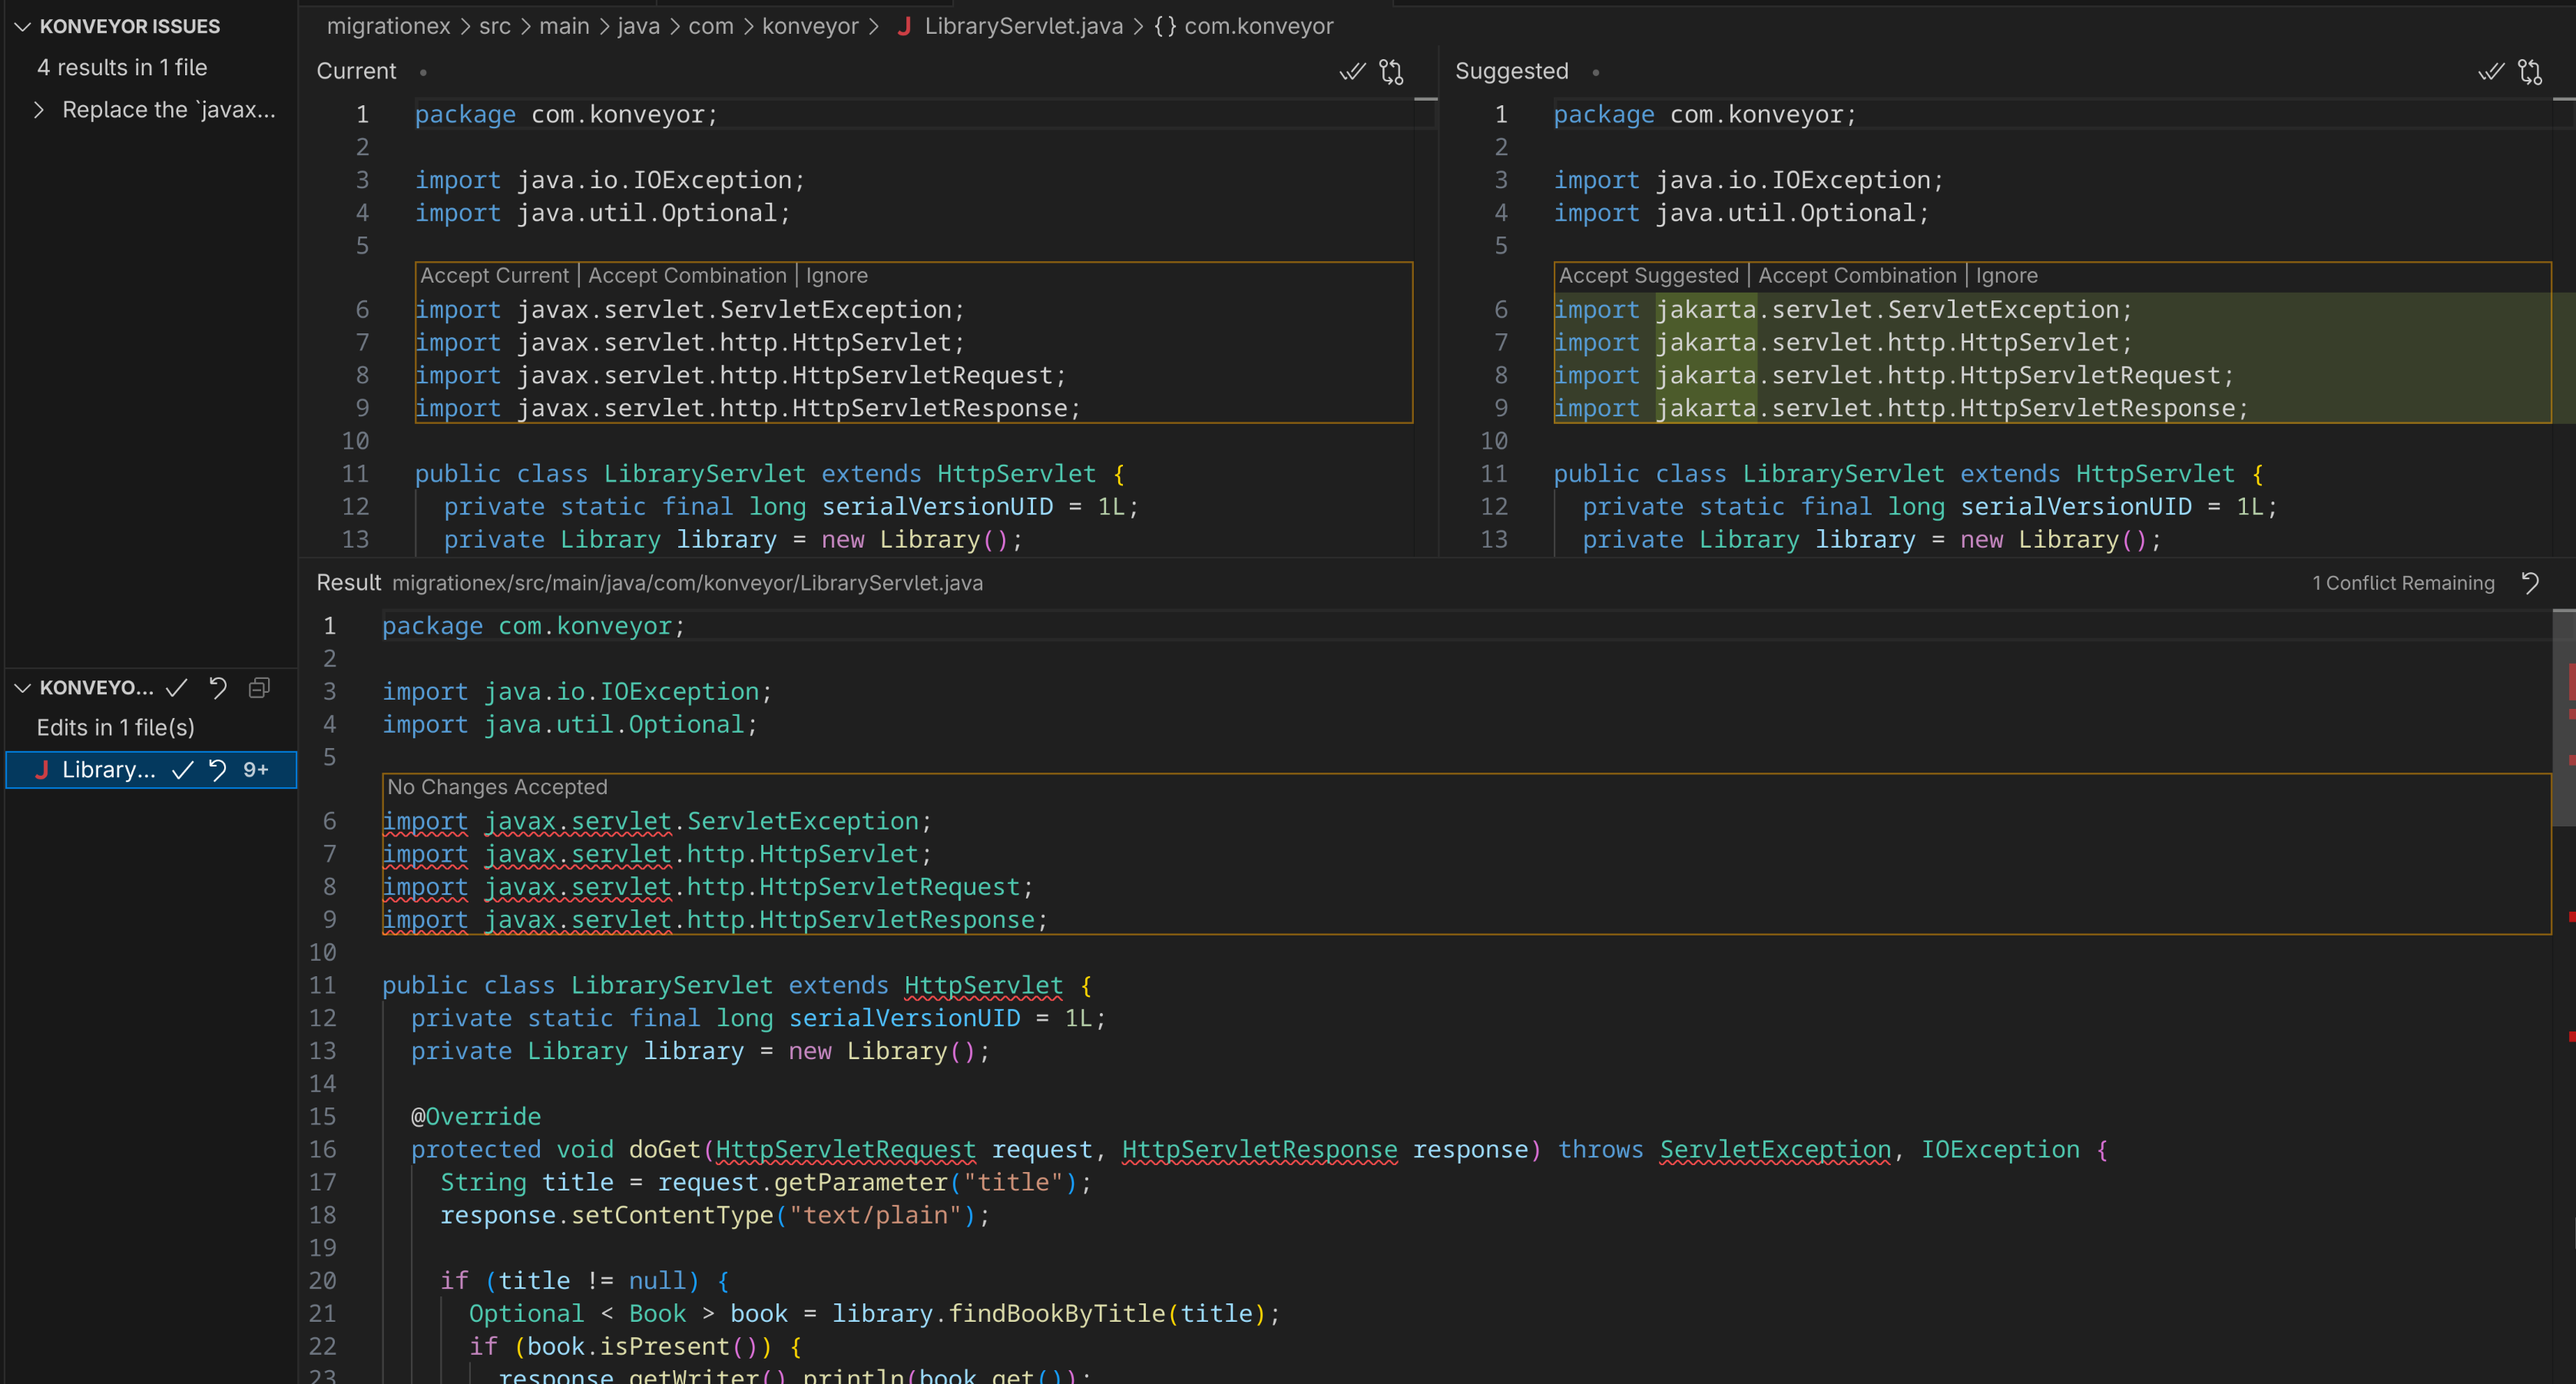
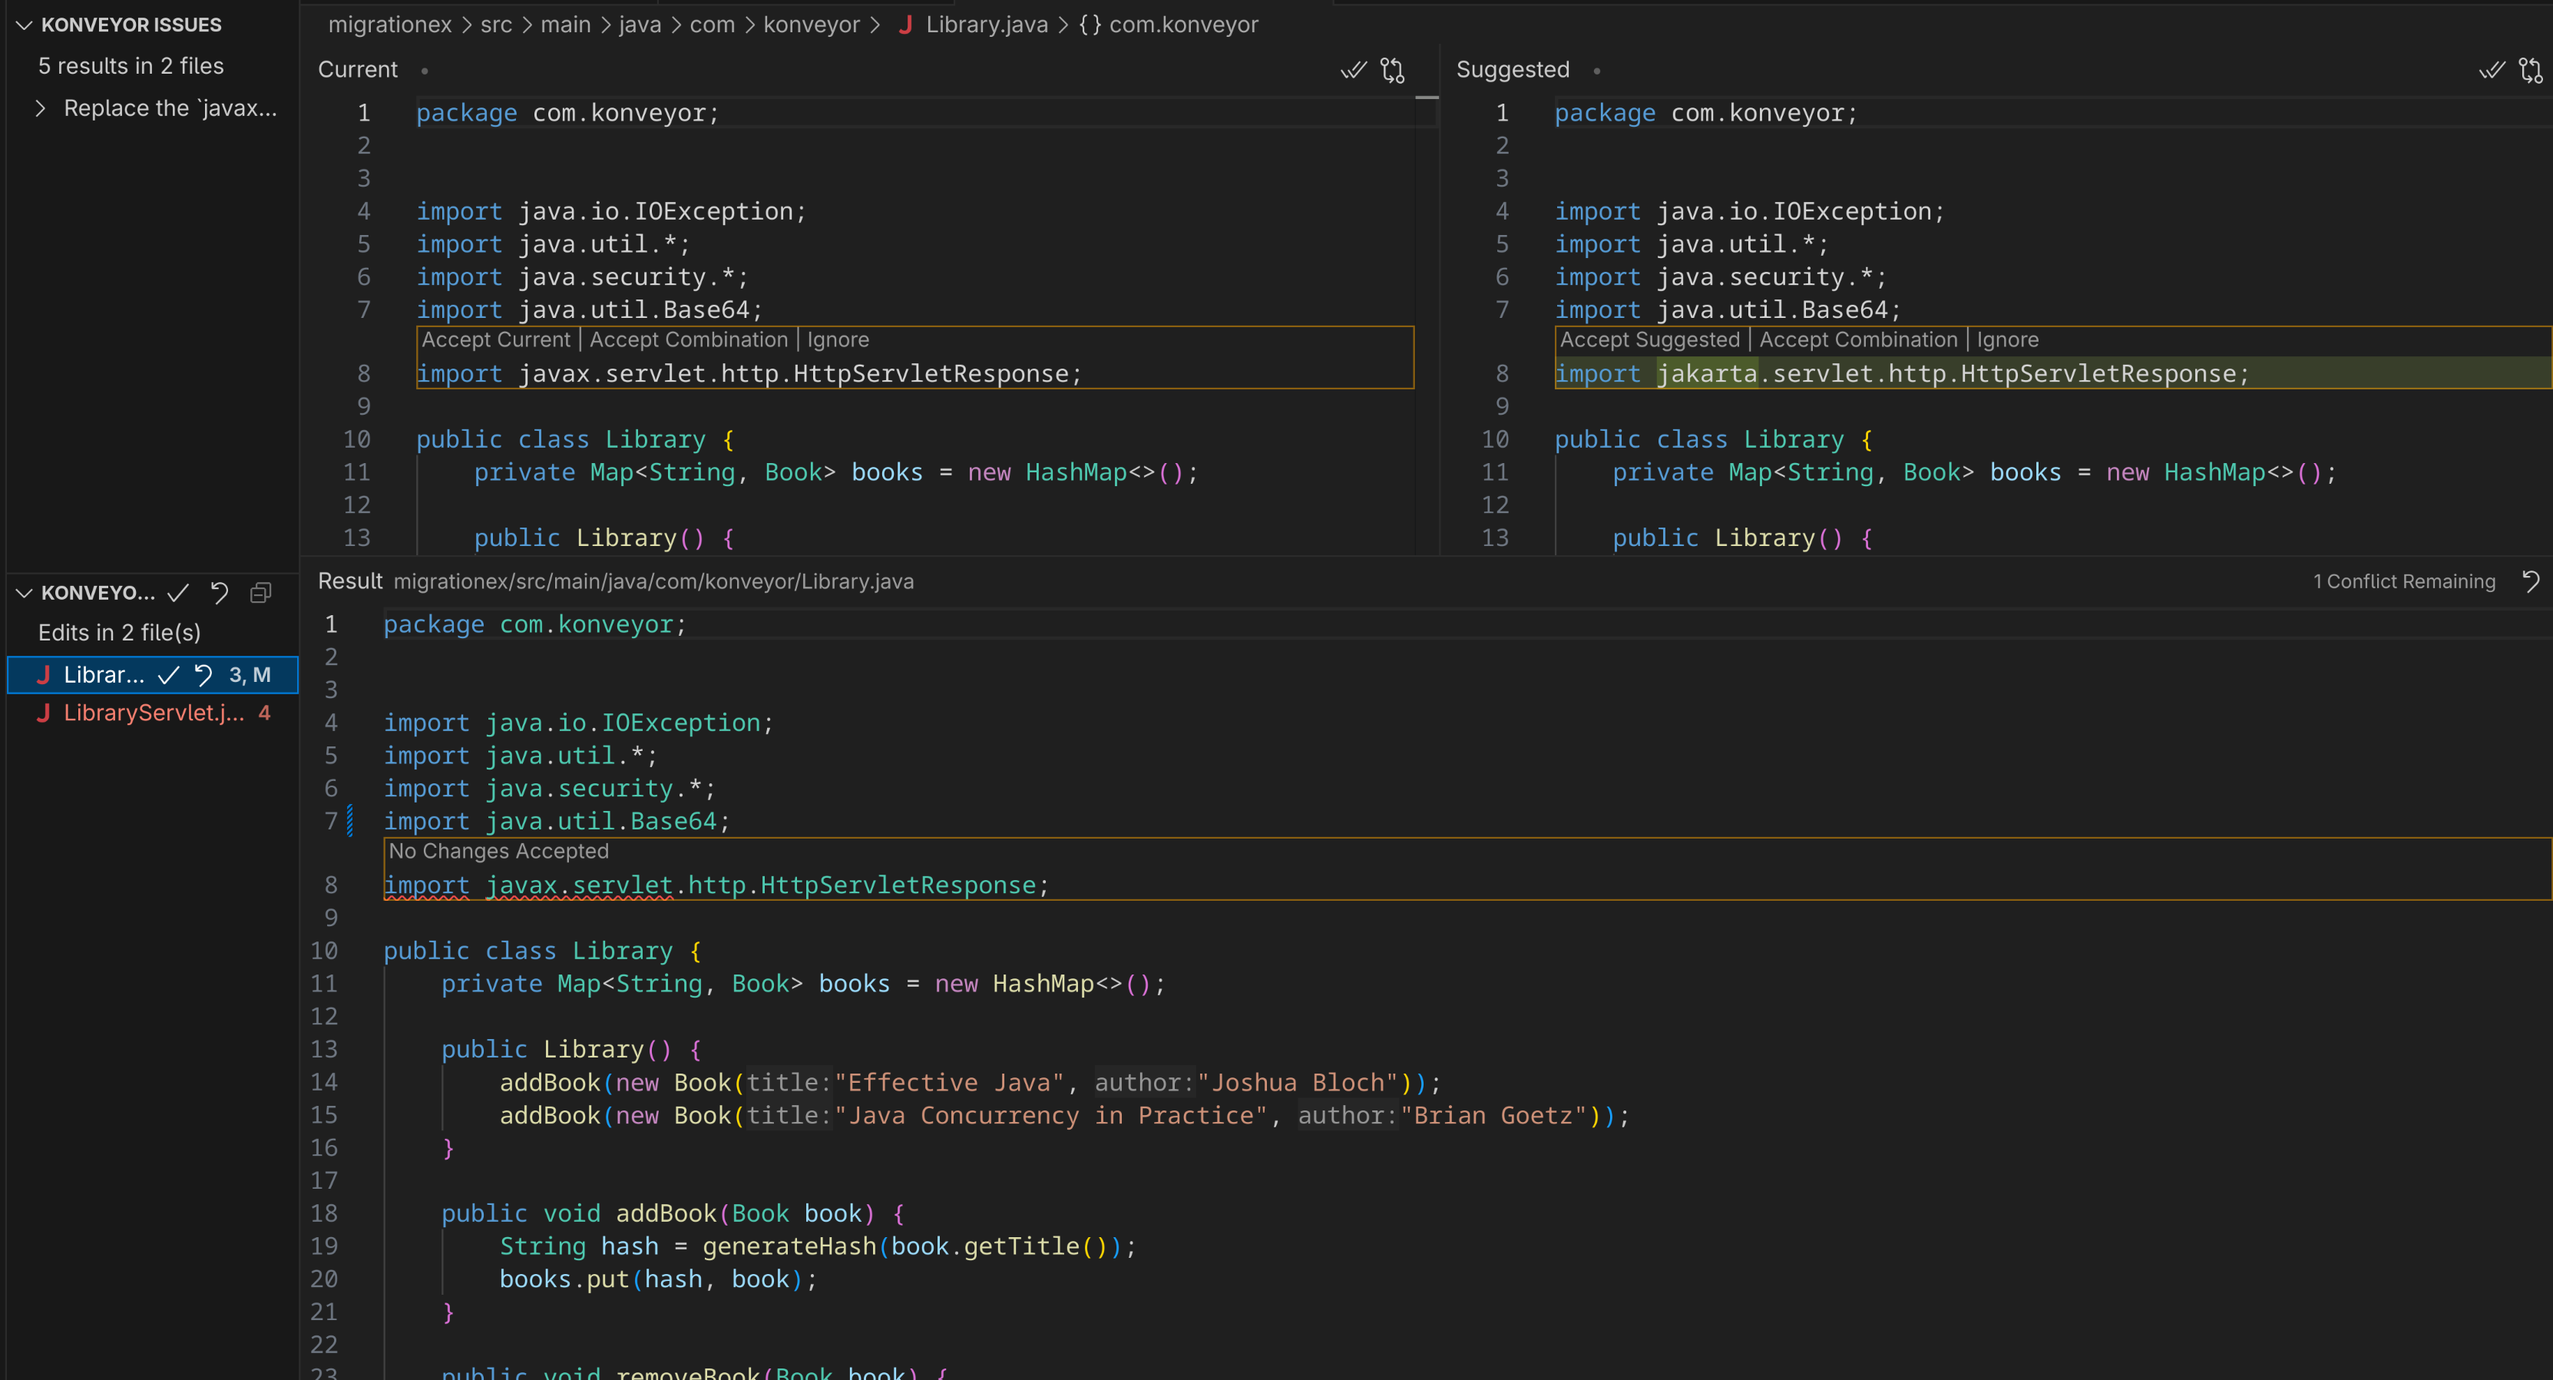
update Library.java

diff --git a/docs/scenarios/jdk_8_to_17_migration/README.md b/docs/scenarios/jdk_8_to_17_migration/README.md
@@ -402,6 +402,8 @@ Once the changes to pom.xml are applied, Kai automatically retriggers analysis a
 #### Identifying Issues
 
 Konveyor analysis detected multiple import statements that require updates from **javax** to **jakarta**:
+- **Library.java**
+  - Line **8**: Replace `javax.servlet.http.HttpServletResponse` with `jakarta.servlet.http.HttpServletResponse`
 - **LibraryServlet.java**
   - Line **6**: Replace `javax.servlet.ServletException` with `jakarta.servlet.ServletException`
   - Line **7**: Replace `javax.servlet.http.HttpServlet` with `jakarta.servlet.http.HttpServlet`
@@ -413,13 +415,17 @@ Konveyor analysis detected multiple import statements that require updates from 
 Clicking on the **tool icon** next to the issue name initiates the resolution process.
 ![jakarta_fix.png](images/jakarta_fix.png)
 
-Kai processes the request in **LibraryServlet.java**.![javax_fix_results.png](images/javax_fix_results.png)
+Kai processes the request in **Library.java** and **LibraryServlet.java**.![javax_fix_results.png](images/javax_fix_results.png)
 
 ![konveyor-results.png](images/konveyor_results.png)
 
 #### Reviewing Suggested Changes
 
 ![jakarta_accept_fixes.png](images/reviewing_resolutions.png)
+
+- **Library.java**
+  The **left panel** contains the `javax.servlet.http.HttpServletResponse` import. The **right panel** updates it to `jakarta.servlet.http.HttpServletResponse`
+  ![servlet_jakarta_changes.png](images/library_jakarta_changes.png)
 
 - **LibraryServlet.java**
   The **left panel** shows the current code with `javax.servlet` imports.
